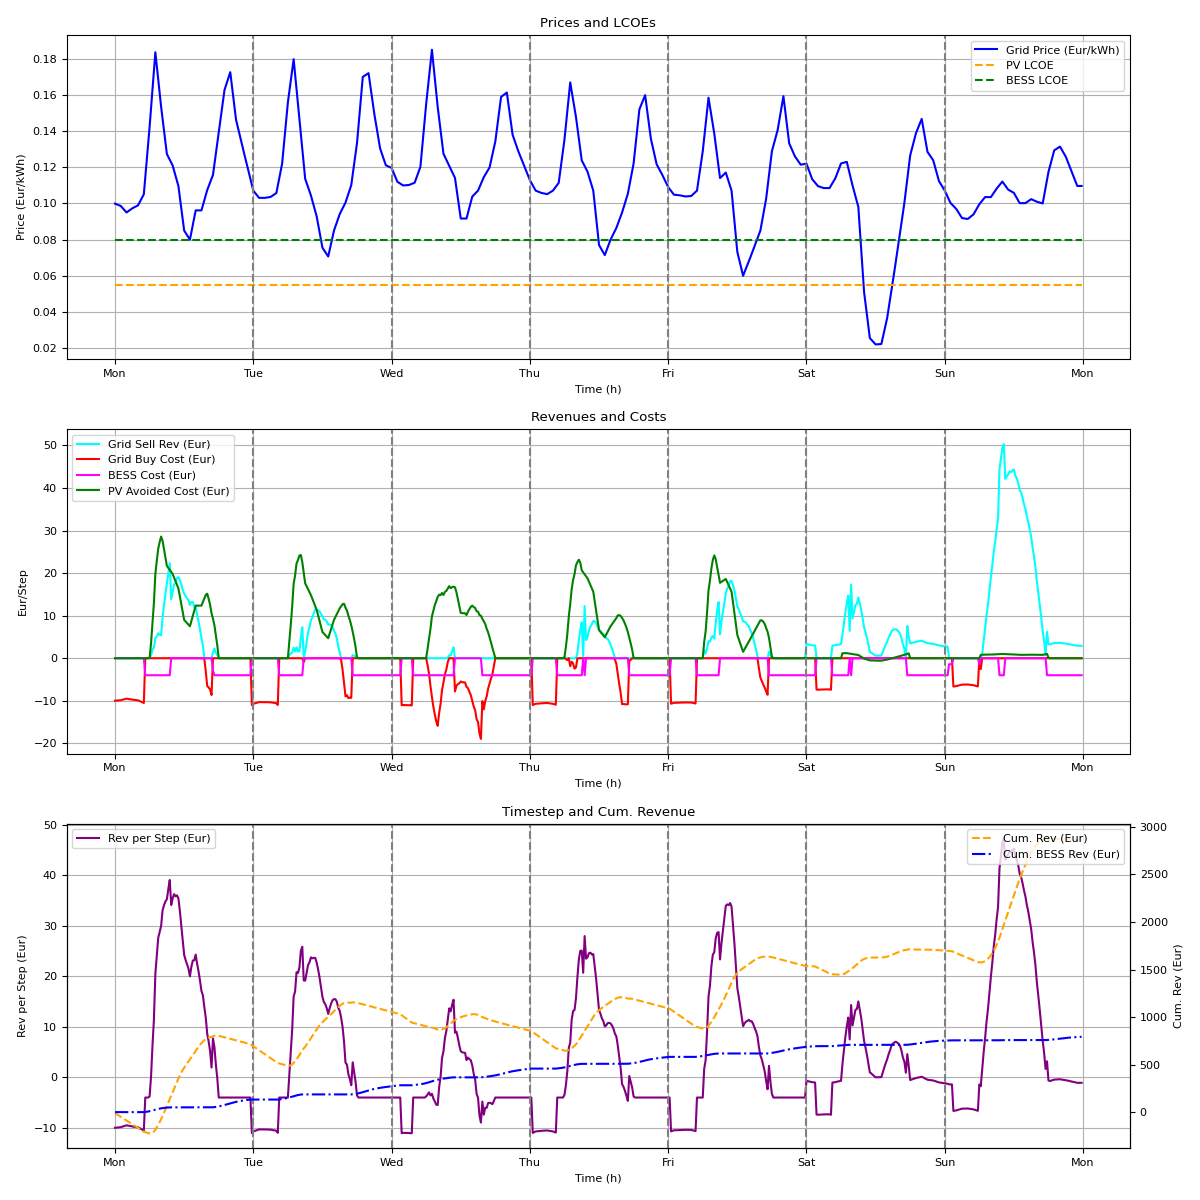
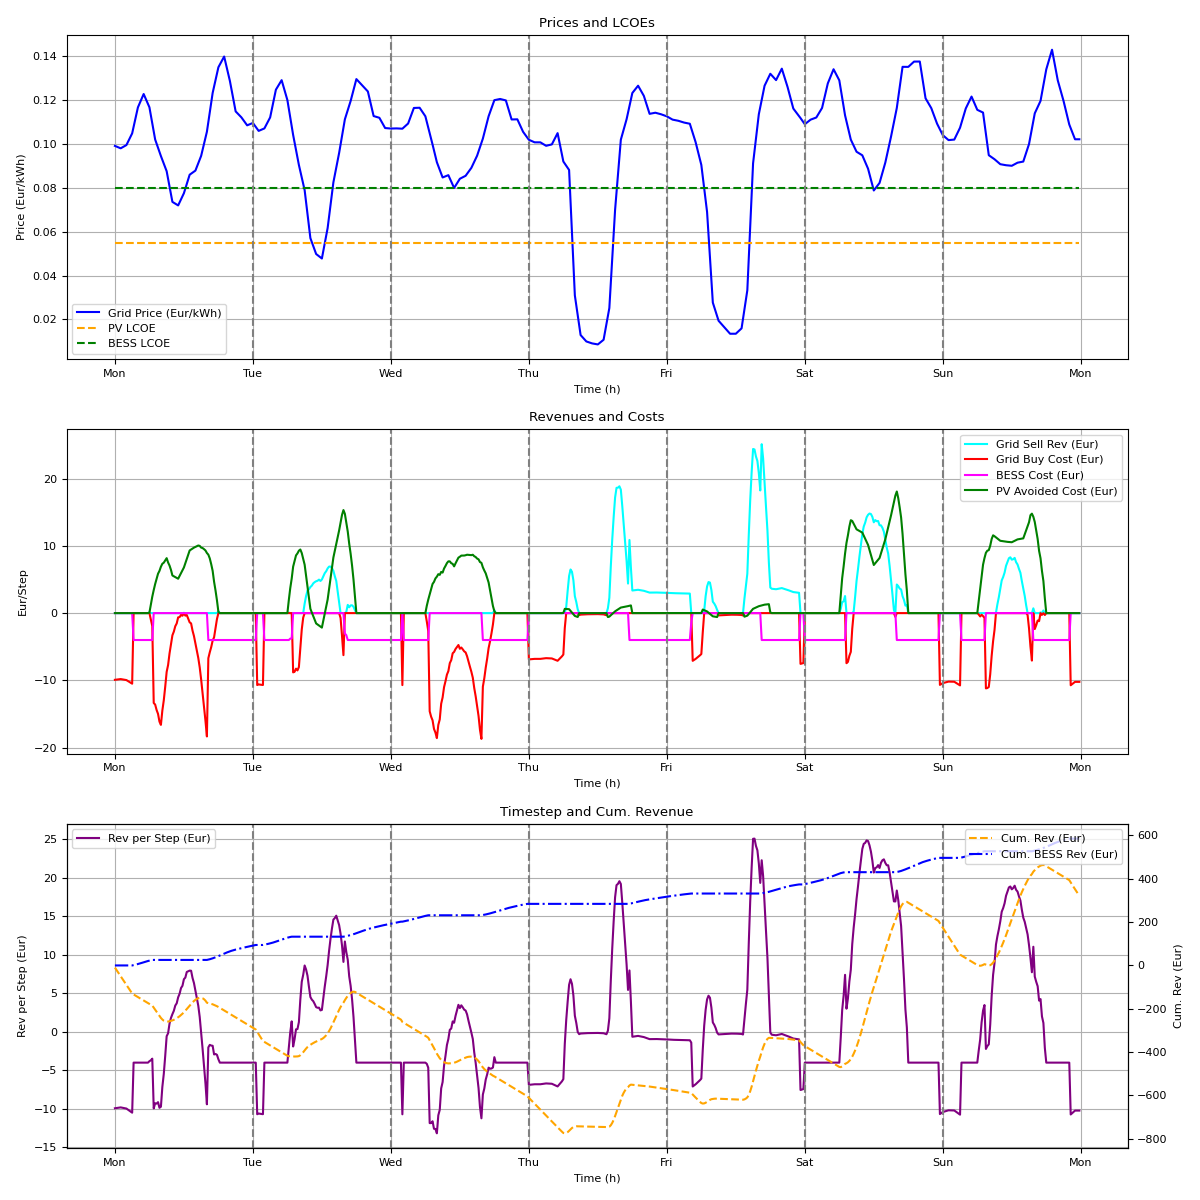
Update API make work with CH data

diff --git a/Computing Files/Optimization_GURBI_API.py b/Computing Files/Optimization_GURBI_API.py
@@ -7,6 +7,7 @@ import random
 from datetime import datetime, timedelta, timezone
 import requests
 from xml.etree import ElementTree
+import warnings  # Added for warning handling
 
 # TEST
 
@@ -20,7 +21,8 @@ time_indices = range(n_steps)
 
 # ENTSO-E API token and bidding zone
 ENTSOE_TOKEN = 'cd4a21d9-d58c-4b68-b233-ae5e0d8707f5'
-BIDDING_ZONE = '10Y1001A1001A73I'
+BIDDING_ZONE = '10YCH-SWISSGRIDZ'  # Switzerland bidding zone
+TIMEZONE_OFFSET = 2  # hours for CEST (UTC+2)
 
 # Added function to fetch day-ahead prices from ENTSO-E
 def get_dayahead_prices(api_key: str, area_code: str, start: datetime = None, end: datetime = None):
@@ -84,14 +86,45 @@ def load_data():
     utc_now = datetime.now(timezone.utc)
     start_date = (utc_now - timedelta(days=7)).replace(hour=0, minute=0, second=0, microsecond=0)
     end_date = utc_now.replace(hour=0, minute=0, second=0, microsecond=0)
-    prices_dict = get_dayahead_prices(ENTSOE_TOKEN, BIDDING_ZONE, start_date, end_date)
-    sorted_times = sorted(prices_dict.keys())
-    if len(sorted_times) != 168:
-        raise ValueError(f"Expected 168 hourly prices, got {len(sorted_times)}")
-    grid_price_hourly = np.array([prices_dict[t] for t in sorted_times]) / 1000  # Convert to Eur/kWh
+    try:  # Added: Try-except to handle API failures
+        prices_dict = get_dayahead_prices(ENTSOE_TOKEN, BIDDING_ZONE, start_date, end_date)
+        sorted_times = sorted(prices_dict.keys())
+        # Added debug prints
+        print(f"API debug: Fetched {len(sorted_times)} prices for zone {BIDDING_ZONE}")
+        if sorted_times:
+            print(f"API debug: Date range: {sorted_times[0]} to {sorted_times[-1]}")
+        
+        # Added: Filter times to exactly the requested range [start_date, end_date)
+        filtered_times = [t for t in sorted_times if start_date <= t < end_date]
+        print(f"API debug: Filtered to {len(filtered_times)} prices within {start_date} to {end_date}")
+        
+        current_times = filtered_times
+        if len(current_times) != 168:
+            warnings.warn(f"Warning: Non-standard data ({len(current_times)} prices). Adjusting to 168.")
+            mean_price = np.mean([prices_dict[t] for t in current_times]) if current_times else 0.103 * 1000  # Fallback to avg in Eur/MWh
+            
+            # Pad if fewer
+            while len(current_times) < 168:
+                last_t = current_times[-1] if current_times else start_date
+                next_t = last_t + timedelta(hours=1)
+                prices_dict[next_t] = mean_price
+                current_times.append(next_t)
+            
+            # Clip if more
+            if len(current_times) > 168:
+                current_times = current_times[:168]
+        
+        sorted_times = sorted(current_times)  # Ensure sorted after adjustments
+    except Exception as e:  # Added: Catch and log errors
+        print(f"API error: {e}. Falling back to synthetic data.")
+        grid_price_hourly = np.full(168, 0.103)  # Fallback to average synthetic hourly prices
+        sorted_times = [start_date + timedelta(hours=i) for i in range(168)]
+    else:
+        grid_price_hourly = np.array([prices_dict[t] for t in sorted_times]) / 1000  # Convert to Eur/kWh
 
-    # Get the weekday of the start date (0=Monday, ..., 6=Sunday)
-    start_weekday = sorted_times[0].weekday()
+    # Adjust for local timezone to correctly shift consumer demand profile
+    local_start_time = sorted_times[0] + timedelta(hours=TIMEZONE_OFFSET)
+    start_weekday = local_start_time.weekday()
 
     # Linear interpolation to 15-min resolution
     time_hourly = np.arange(0, 168, 1)
@@ -133,14 +166,22 @@ def load_data():
         else:  # Weekends (Sat-Sun): standby days
             consumer_demand[i] = 70.0
 
+    # Prepare plot information
+    bidding_zone_desc = f"Switzerland ({BIDDING_ZONE})"
+    period_start = local_start_time.strftime('%Y-%m-%d')
+    period_end = (local_start_time + timedelta(days=7)).strftime('%Y-%m-%d')
+    period_str = f"{period_start} to {period_end}"
+
     return (pv_power, consumer_demand, grid_buy_price, grid_sell_price,
             lcoe_pv, lcoe_bess, bess_capacity, bess_power_limit,
-            eta_charge, eta_discharge, soc_initial, pi_consumer)
+            eta_charge, eta_discharge, soc_initial, pi_consumer,
+            bidding_zone_desc, period_str)
 
 # Load data
 (pv_power, consumer_demand, grid_buy_price, grid_sell_price,
  lcoe_pv, lcoe_bess, bess_capacity, bess_power_limit,
- eta_charge, eta_discharge, soc_initial, pi_consumer) = load_data()
+ eta_charge, eta_discharge, soc_initial, pi_consumer,
+ bidding_zone_desc, period_str) = load_data()
 
 # Added for big-M constants in mutual exclusivity constraints
 max_pv = np.max(pv_power)
@@ -345,7 +386,7 @@ if problem.status == cp.OPTIMAL:
     plt.plot(time_steps, np.full(n_steps, lcoe_bess), label='BESS LCOE', color='green', linestyle='--')
     plt.xlabel('Time (h)')
     plt.ylabel('Price (Eur/kWh)')
-    plt.title('Prices and LCOEs')
+    plt.title(f'Prices and LCOEs\n{bidding_zone_desc}\n{period_str}')
     plt.legend(loc='best')
     plt.grid(True)
     plt.xticks(np.arange(0, 169, 24), day_labels)
